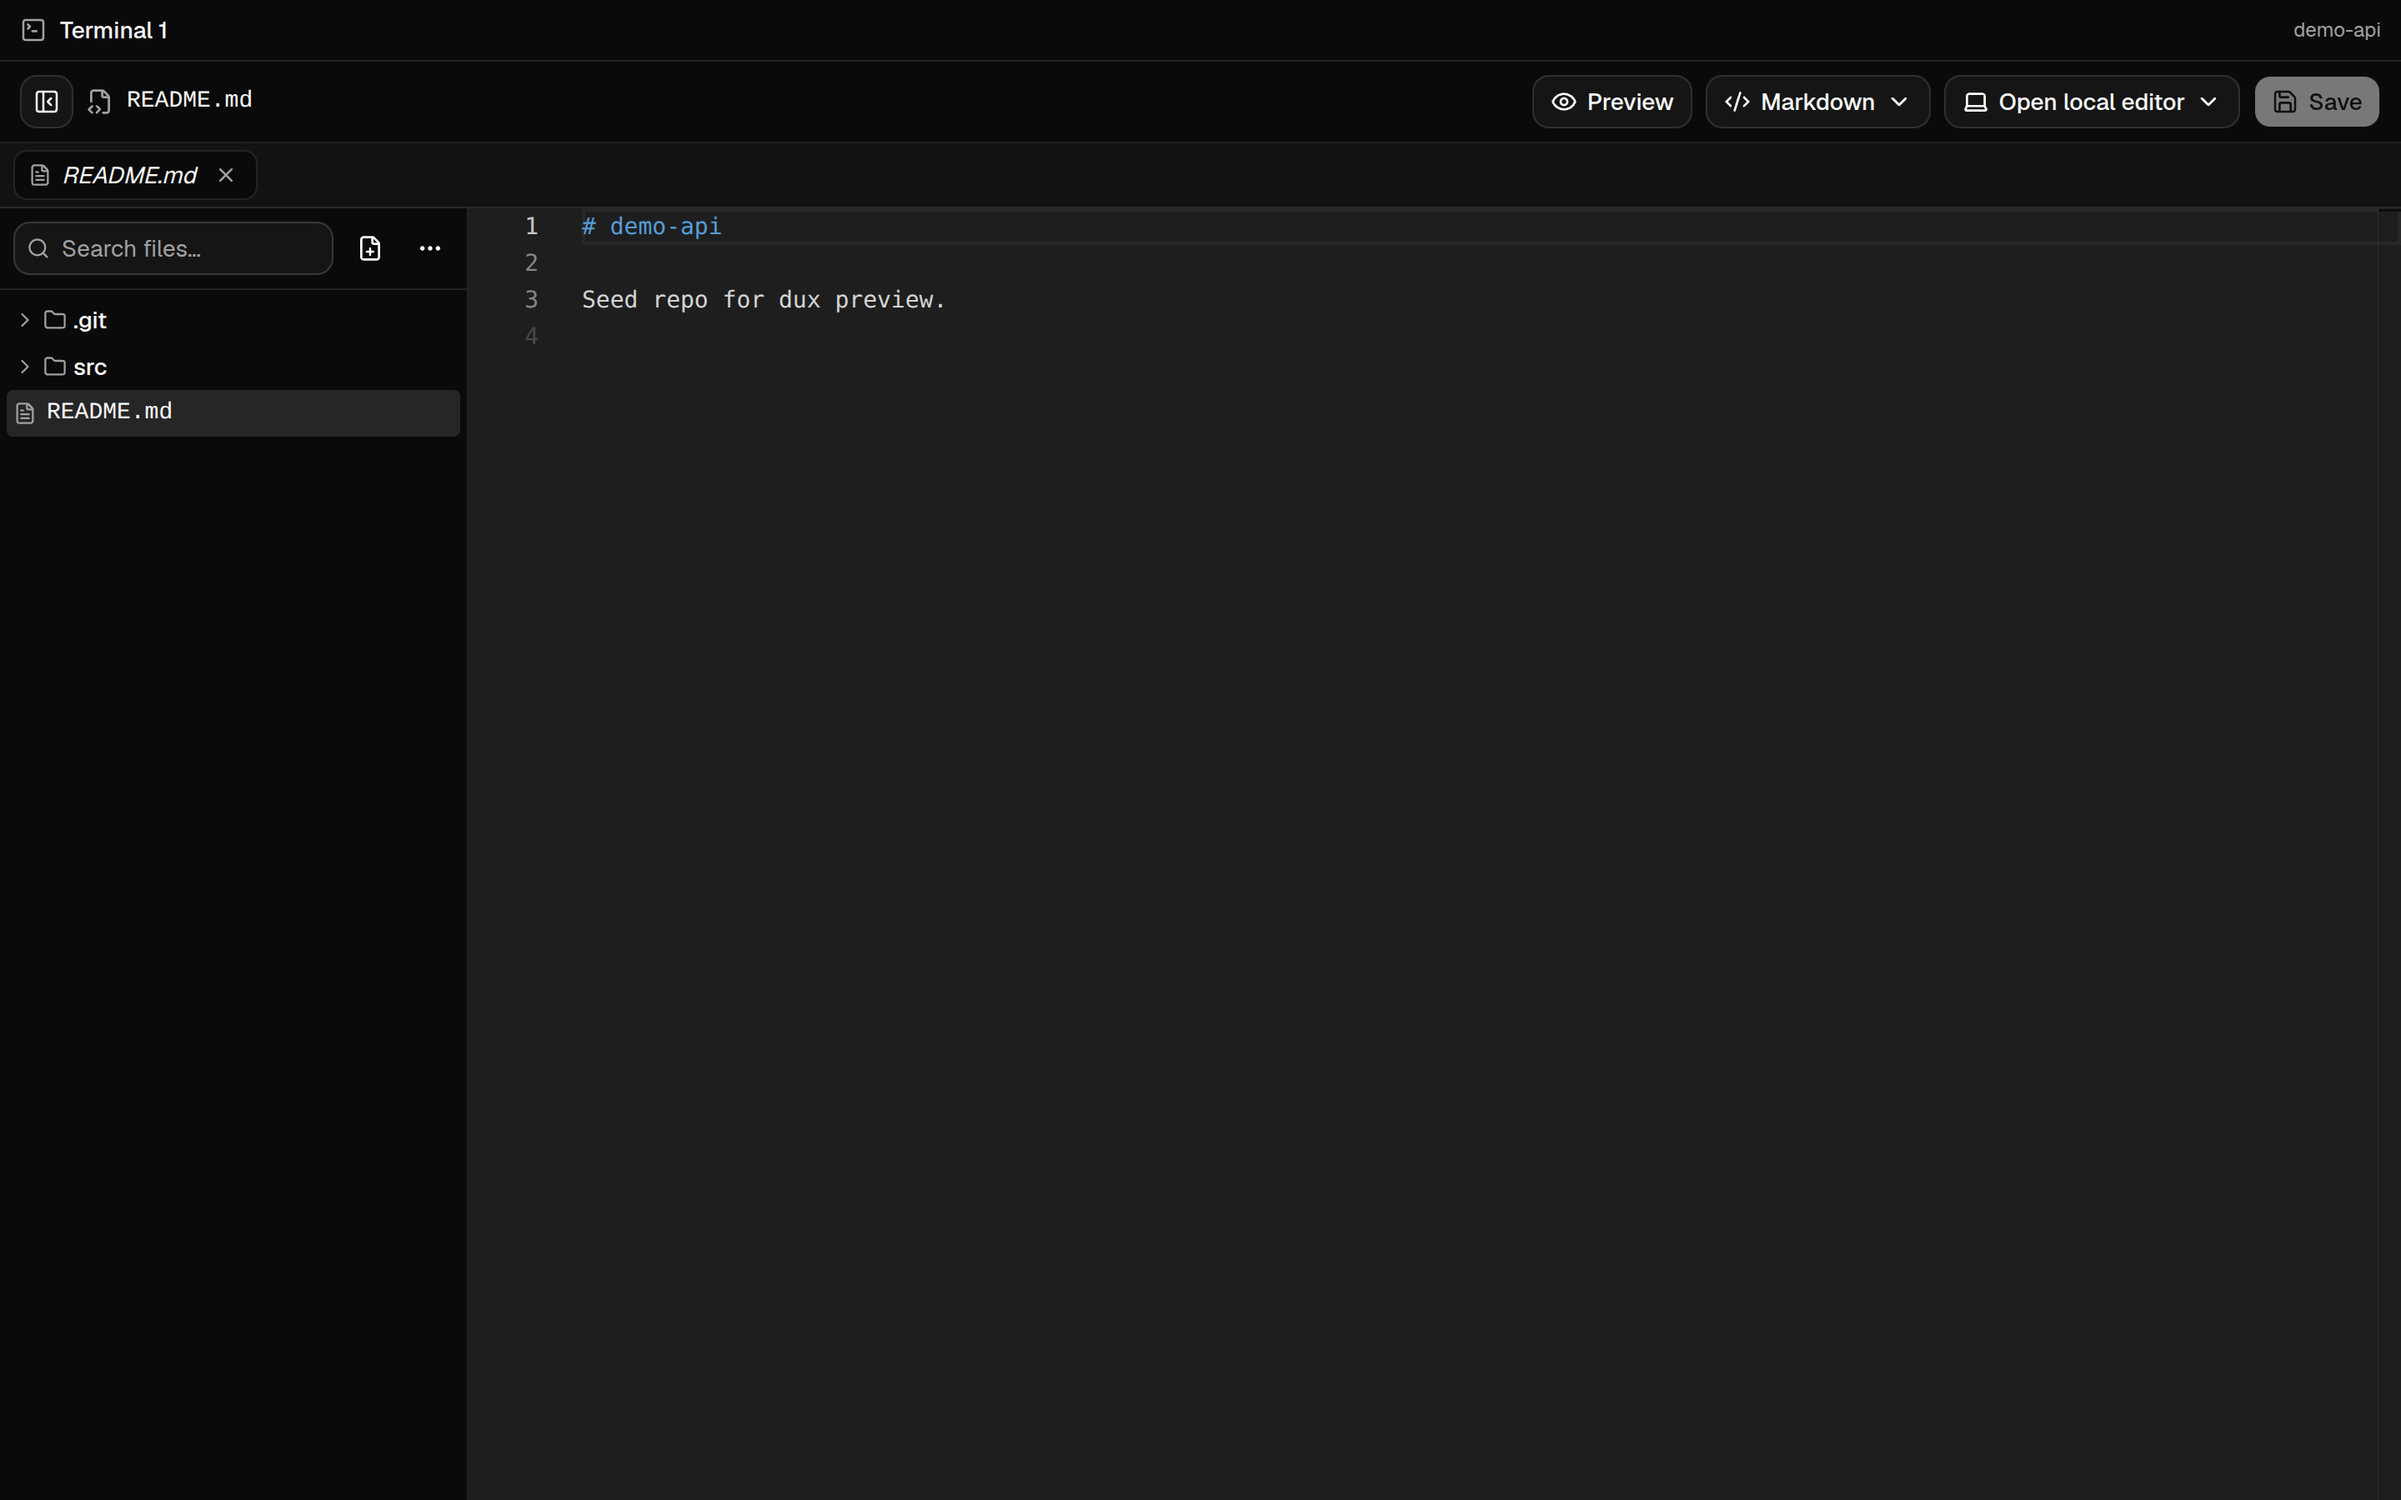
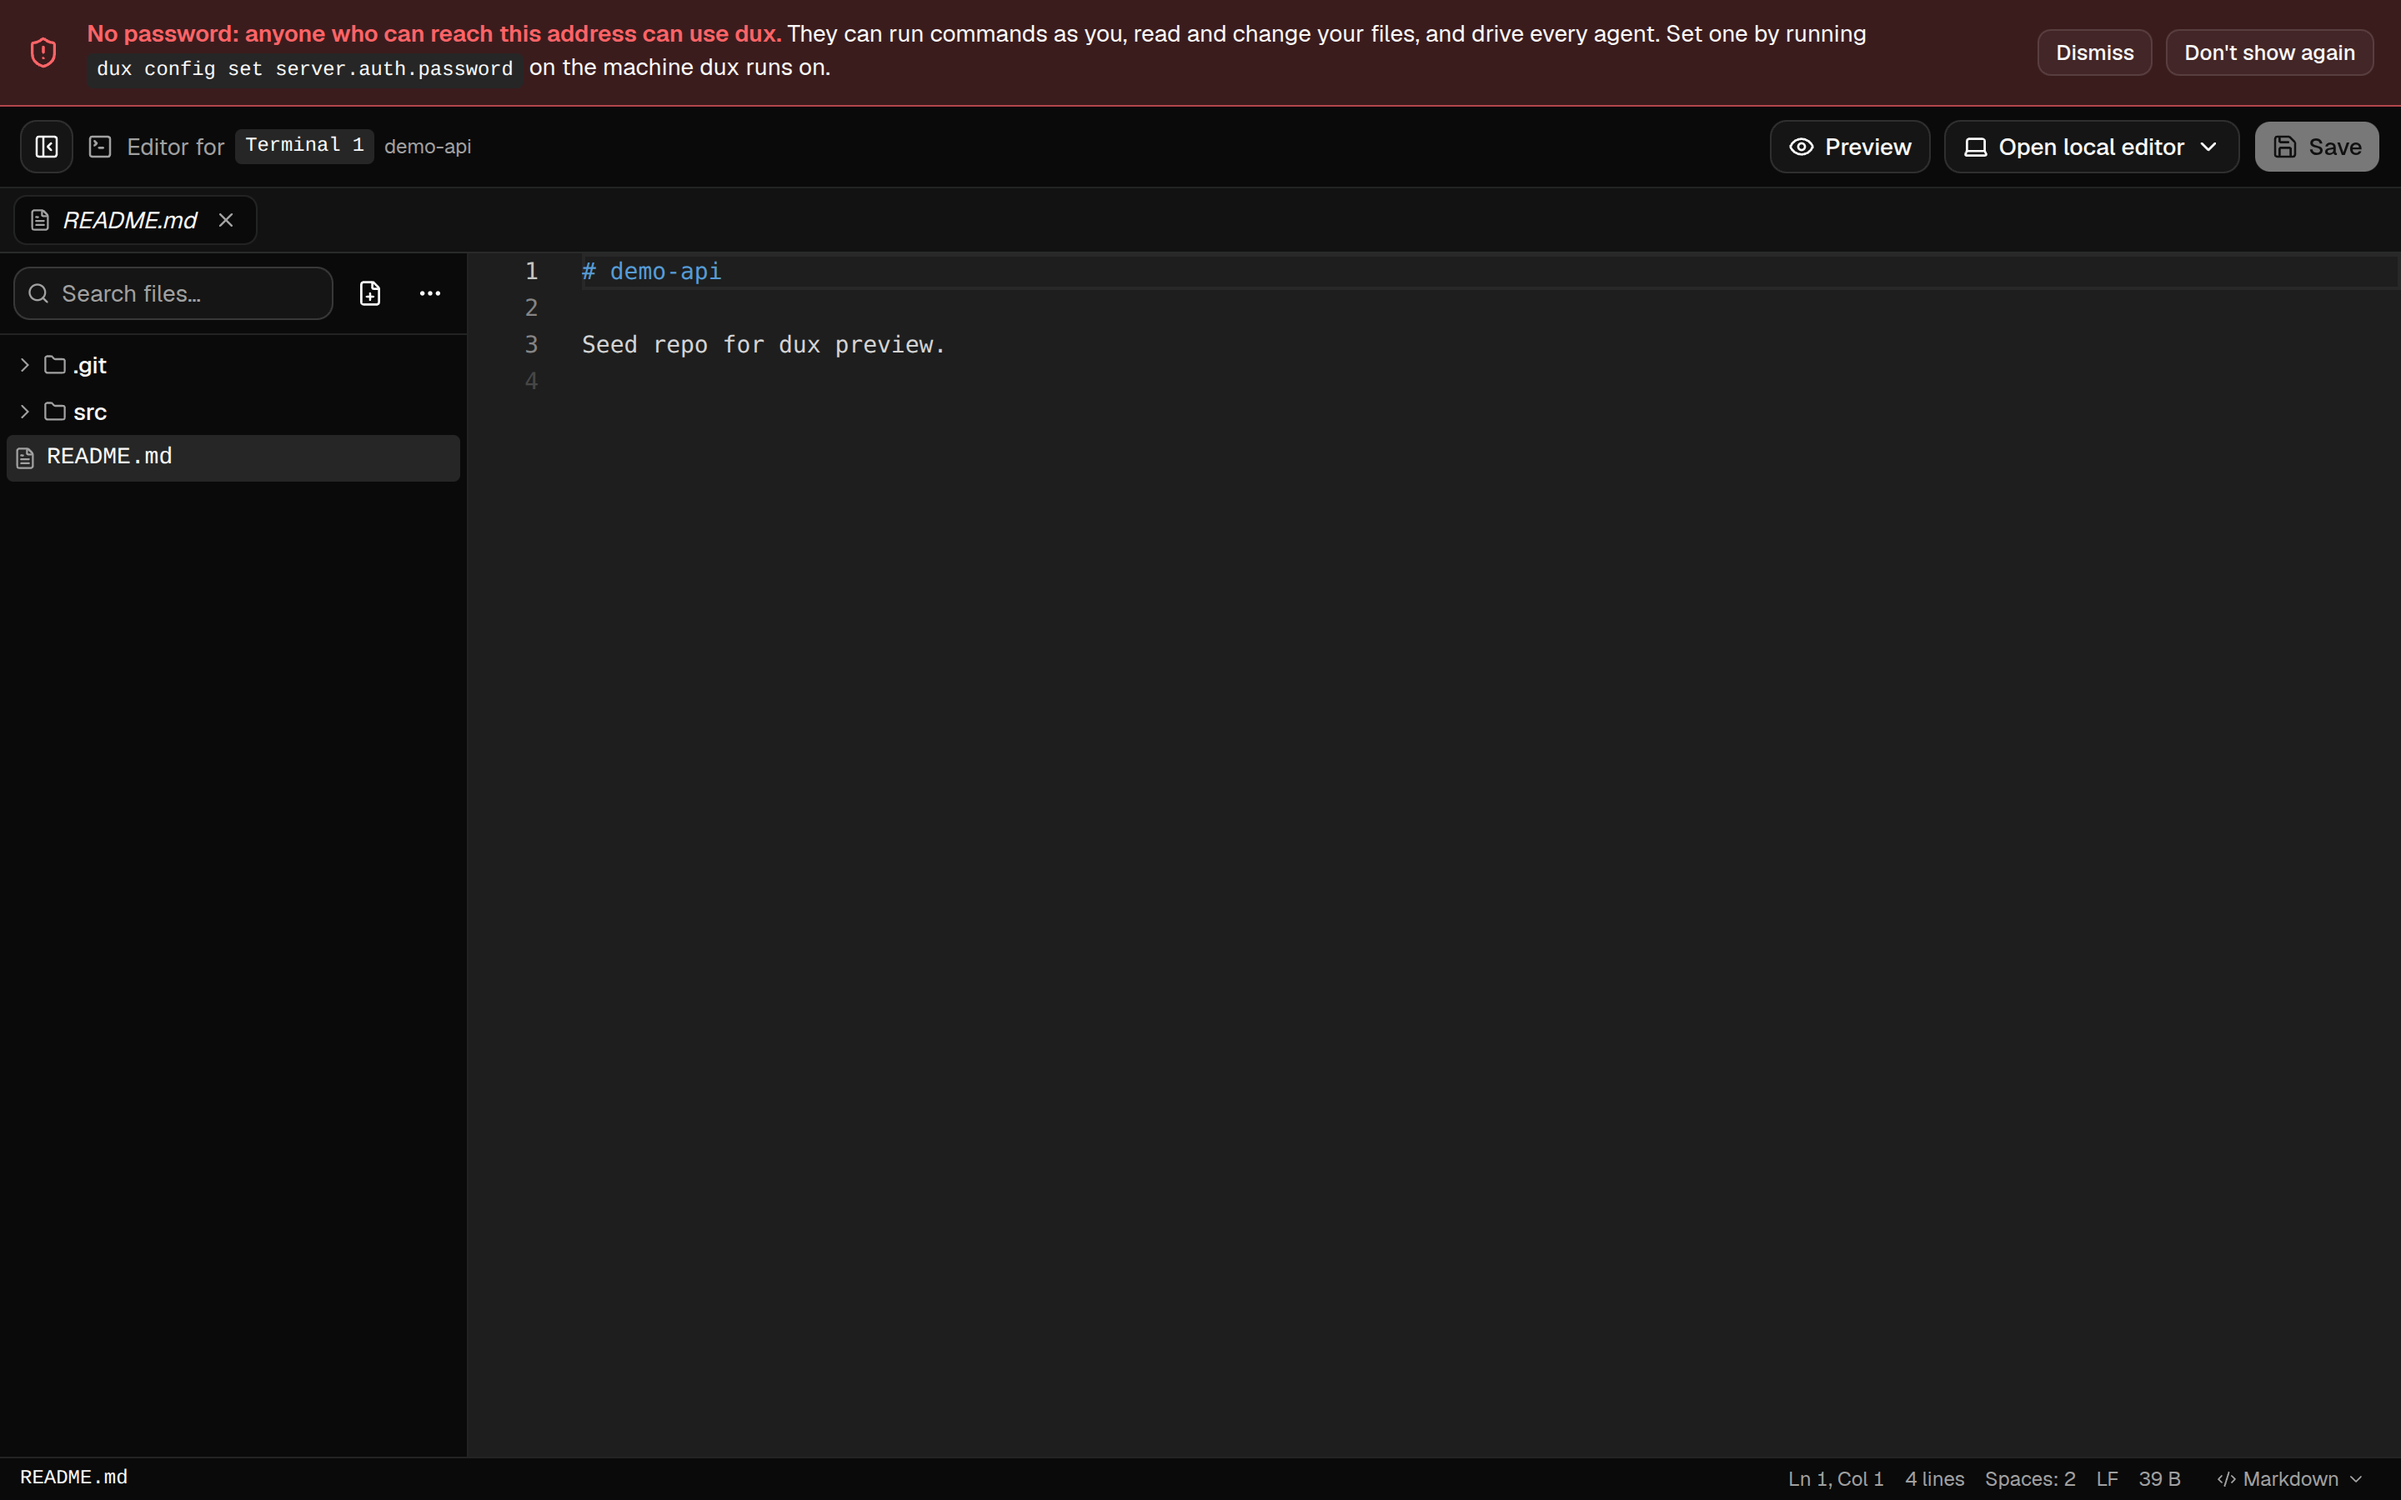
Let the terminal's owner text give way before its name in a narrow editor header, and reshoot the terminal-rooted editor screenshot with the new header and status bar

diff --git a/crates/dux-web/web/src/components/EditorBody.tsx b/crates/dux-web/web/src/components/EditorBody.tsx
@@ -1403,7 +1403,9 @@ export function EditorBody({ root, standalone = false }: EditorBodyProps) {
               {named.name}
             </InlineCode>
             {named.detail !== null && (
-              <span className="min-w-0 shrink truncate text-xs text-muted-foreground">
+              // Gives way faster than the chip, so a narrow header keeps the
+              // name and loses the owner text first.
+              <span className="min-w-0 shrink-[4] truncate text-xs text-muted-foreground">
                 {named.detail}
               </span>
             )}
